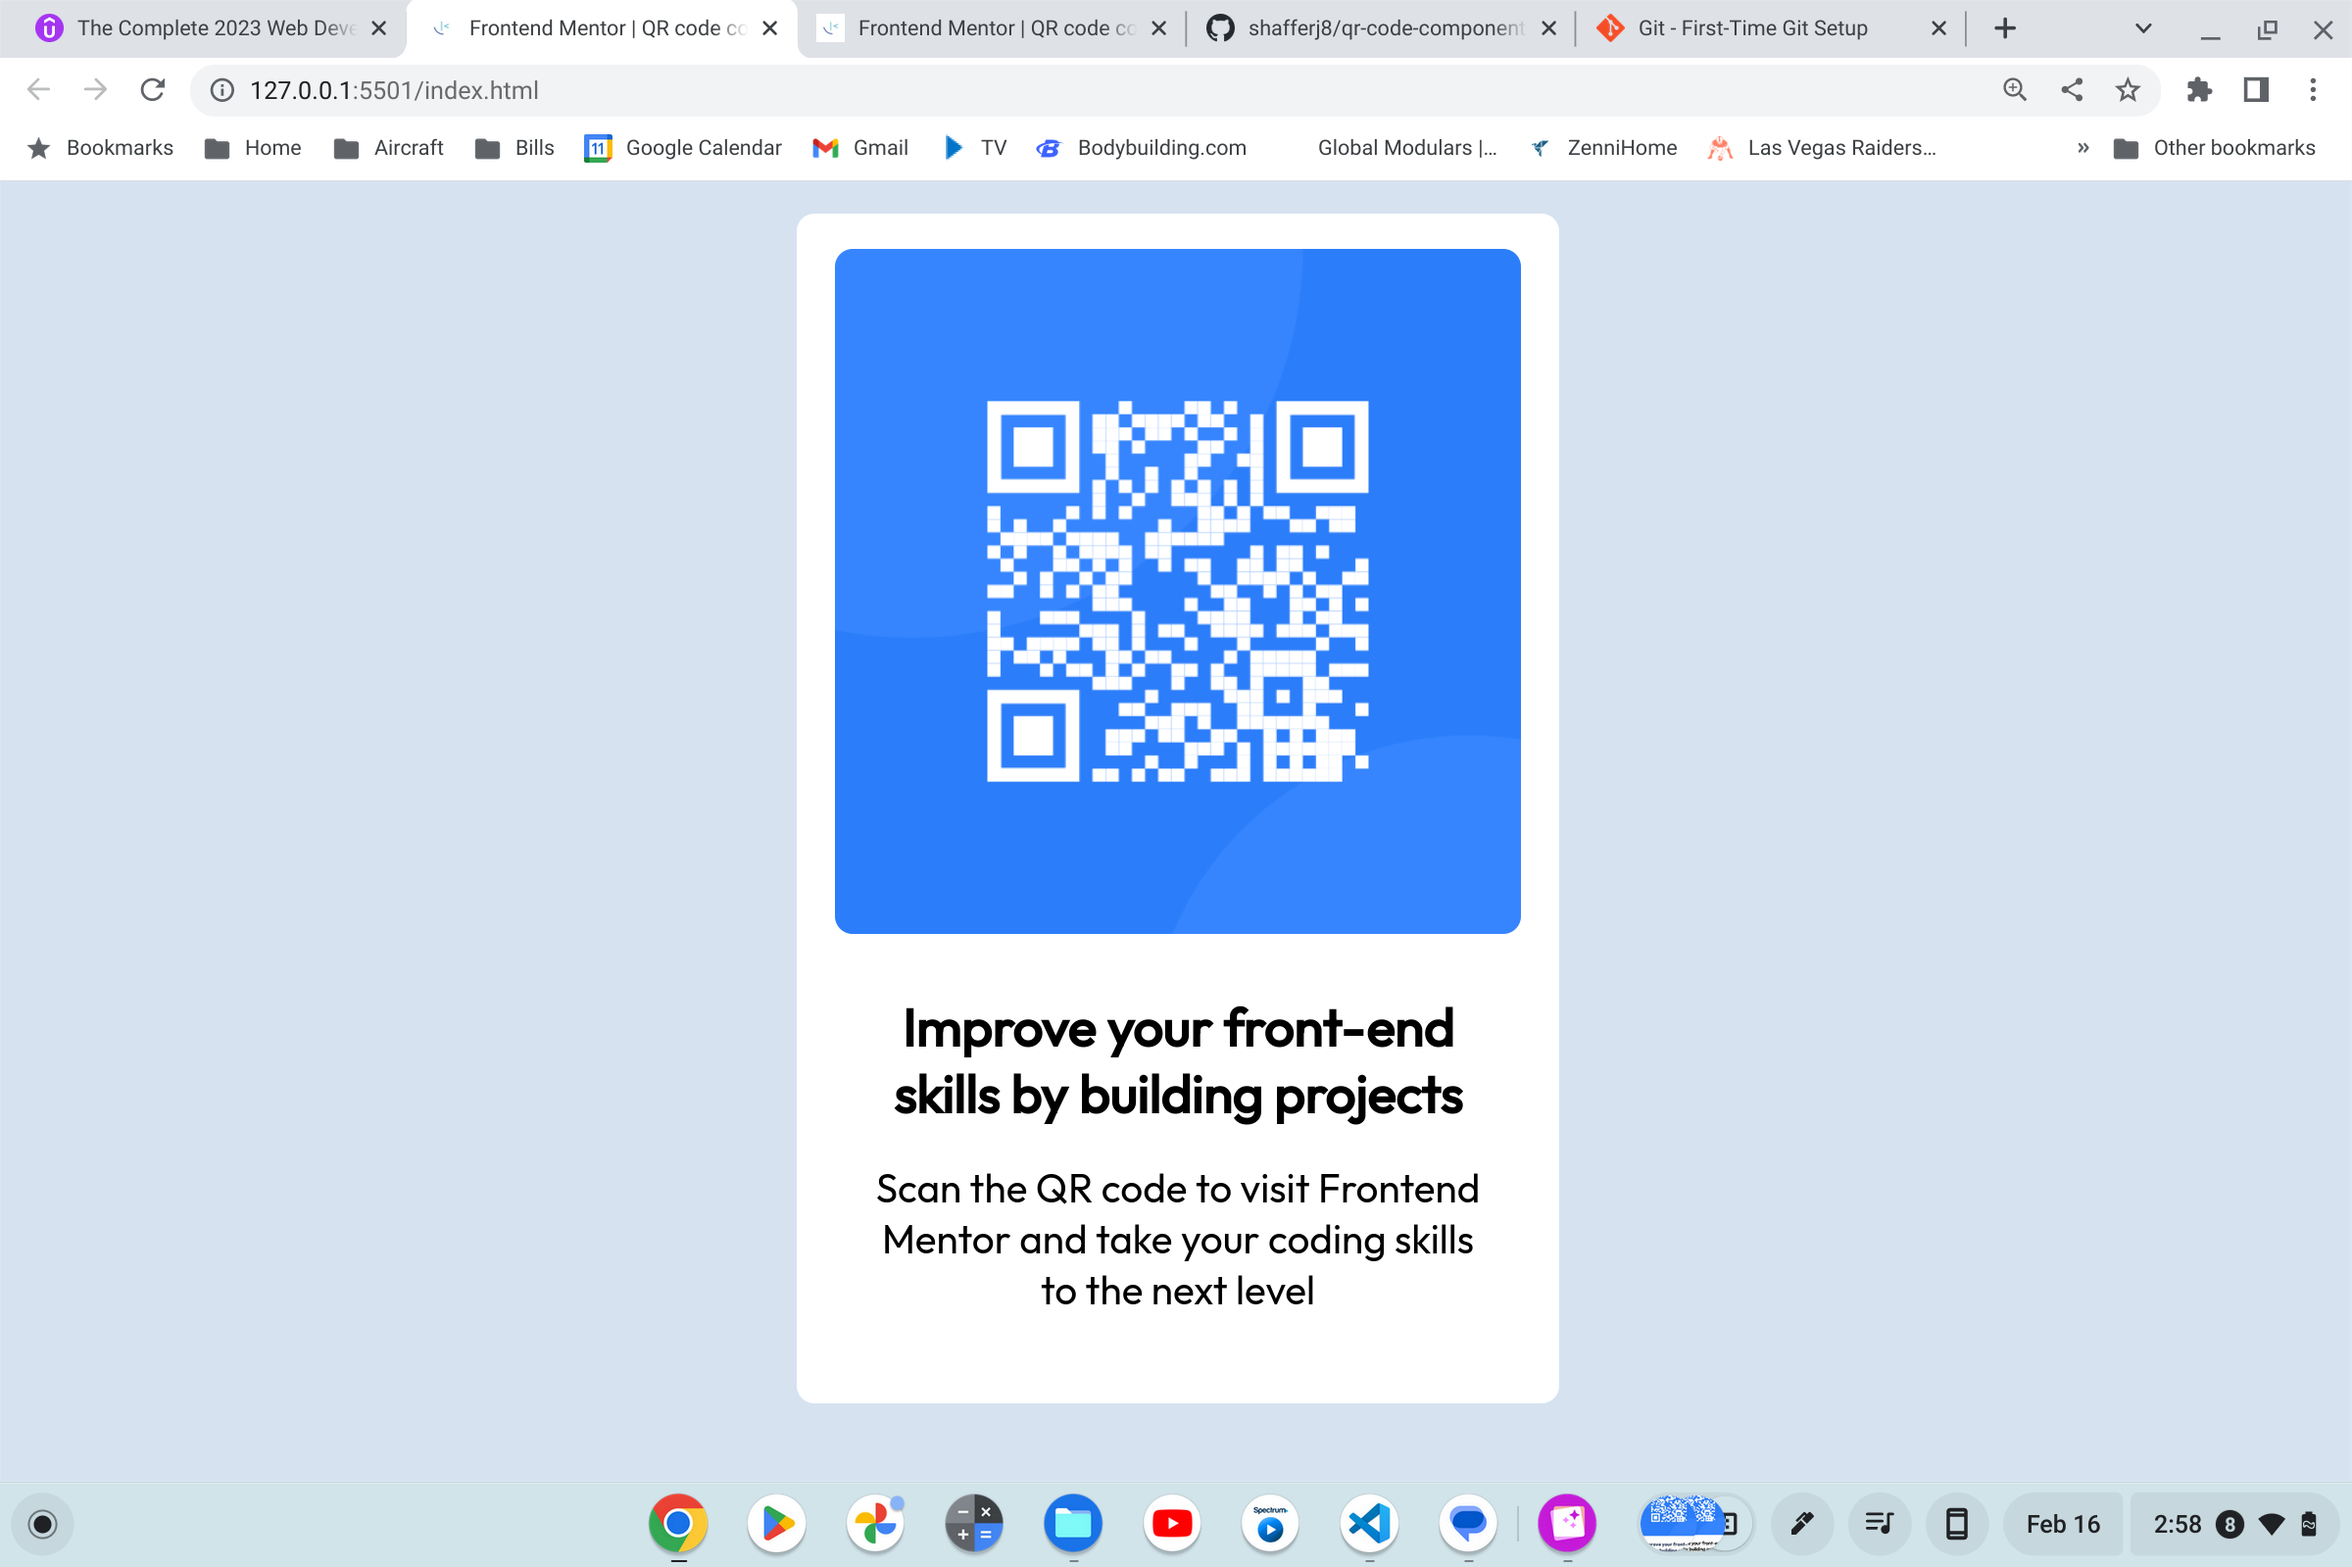
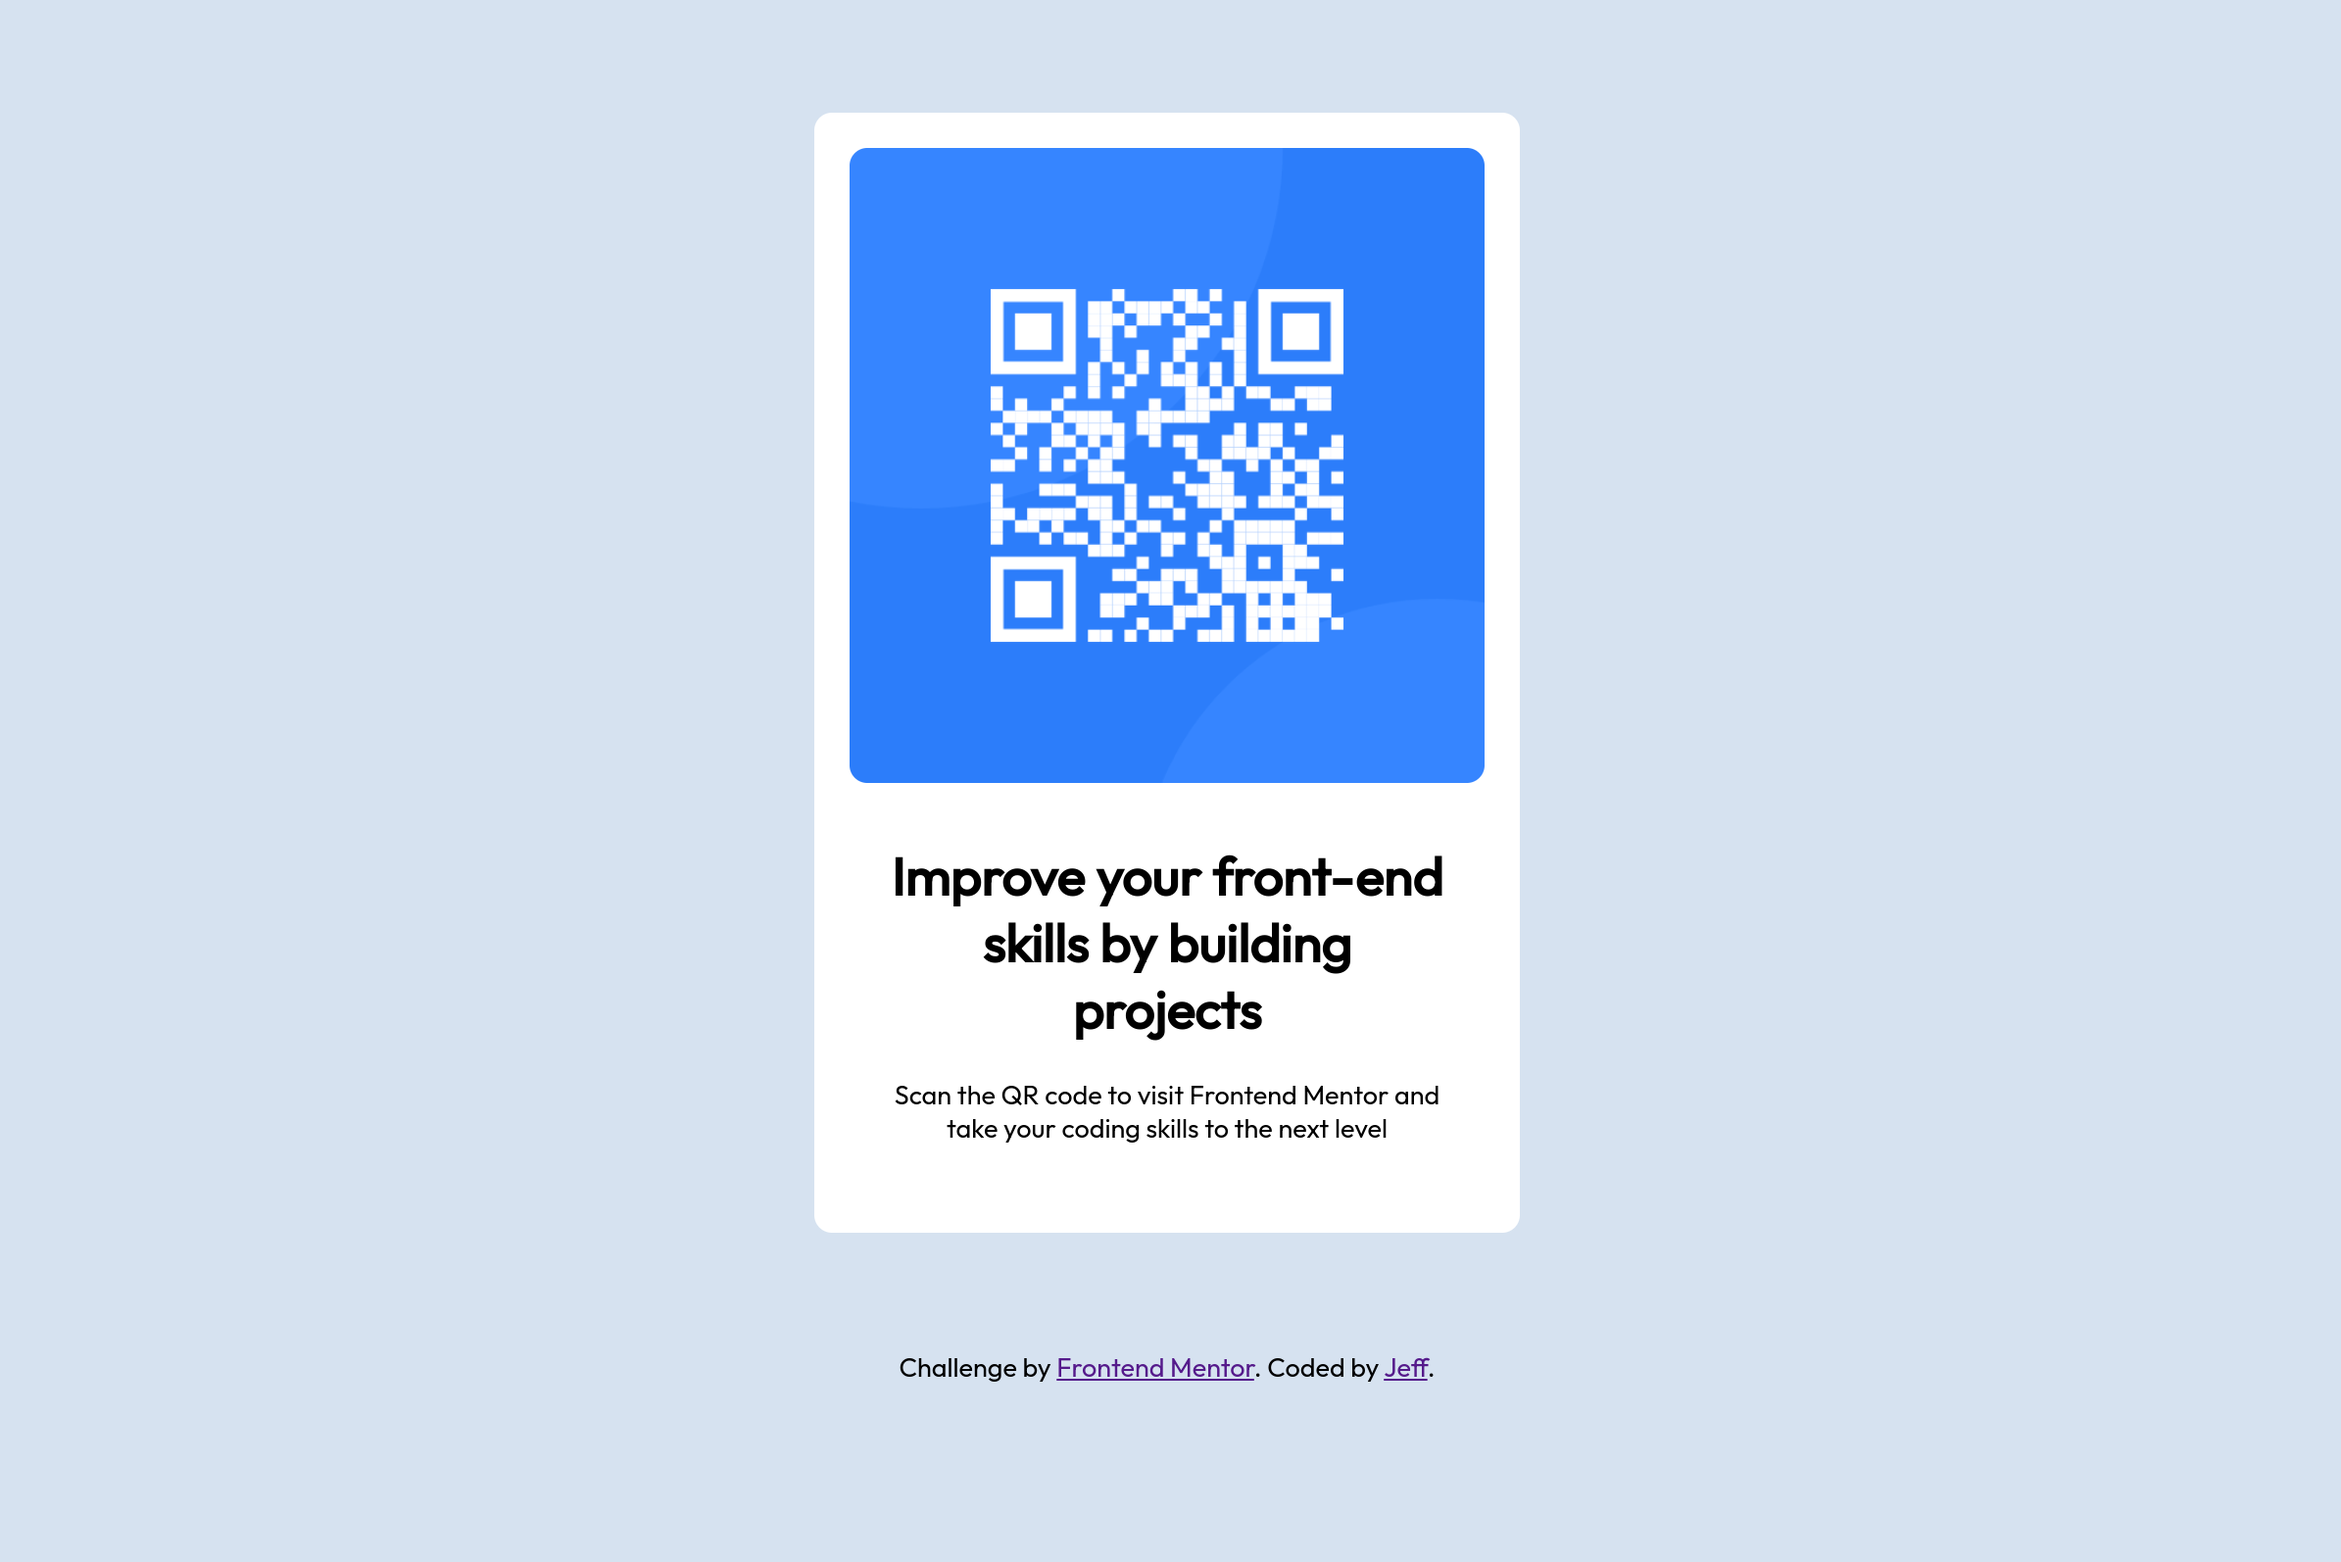
Using display flex rather than inline. Using media query inline rather than a separate file Made body 100%

diff --git a/index.html b/index.html
@@ -7,33 +7,30 @@
   <!-- displays site properly based on user's device -->
 
   <link rel="icon" type="image/png" sizes="32x32" href="./images/favicon-32x32.png">
-
   <title>Frontend Mentor | QR code component</title>
-
-  <link rel="stylesheet" media='screen and (max-width: 375px)' href="css/style-small.css">
-  <link rel="stylesheet" media='screen and (min-width: 376px)' href="css/style.css">
-
+  <link rel="stylesheet" href="css/style.css">
   <link rel="preconnect" href="https://fonts.googleapis.com">
   <link rel="preconnect" href="https://fonts.gstatic.com" crossorigin>
   <link href="https://fonts.googleapis.com/css2?family=Outfit&display=swap" rel="stylesheet">
 </head>
 
-<body>
+<main>
 
-  <div class="palette">
-    <img src="images/image-qr-code.png" alt="image-qr-code">
-    <h1>
-      Improve your front-end skills by building projects
-    </h1>
-    <h2>
-      Scan the QR code to visit Frontend Mentor and take your coding skills to the next level
-    </h2>
-  </div>
-
-  <div class="attribution">
-    Challenge by <a href="https://www.frontendmentor.io?ref=challenge" target="_blank">Frontend Mentor</a>.
-    Coded by <a href="#">Your Name Here</a>.
-  </div>
-</body>
+  <body>
+    <div class="palette">
+      <img src="images/image-qr-code.png" alt="frontendmentor-qr-code">
+      <h1>
+        Improve your front-end skills by building projects
+      </h1>
+      <p class="qr-text">
+        Scan the QR code to visit Frontend Mentor and take your coding skills to the next level
+      </p>
+    </div>
+    <div class="attribution">
+      Challenge by <a href="https://www.frontendmentor.io?ref=challenge" target="_blank">Frontend Mentor</a>.
+      Coded by <a href="#">Jeff</a>.
+    </div>
+  </body>
+</main>
 
 </html>

diff --git a/css/style.css b/css/style.css
@@ -1,5 +1,6 @@
 * {
     margin: 0;
+    padding: 0;
 }
 
 body {
@@ -7,13 +8,12 @@ body {
     text-align: center;
     background-color: hsl(212, 45%, 89%);
     font-size: 15px;
-    width: 1440px;
+    width: 100%;
 }
 
 img {
     border-radius: 10px;
     width: 90%;
-    display: inline-block;
     margin: 20px auto 30px auto;
 }
 
@@ -23,7 +23,7 @@ h1 {
     width: 80%
 }
 
-h2 {
+p {
     font-weight: 400;
     margin: auto auto 20px auto;
     padding-bottom: 50px;
@@ -33,6 +33,20 @@ h2 {
 .palette {
     background-color: hsl(0, 0%, 100%);
     width: 30%;
+    display: flex;
+    justify-content: center;
+    flex-direction: column;
     margin: 5% auto;
     border-radius: 10px;
+}
+
+@media screen and (max-width: 375px) {
+    .palette {
+        font-size: 0.7em;
+        width: 95%;
+    }
+
+    p {
+        font-size: 1.1em;
+    }
 }

diff --git a/README.md b/README.md
@@ -21,7 +21,8 @@ This is my first challenge from front end mentor. Fun little challenge to get me
 
 ### Screenshot
 
-![](./screenshot.jpg)
+![](./screenshot.png)
+![](./screenshot-small.png)
 
 
 ### Links
